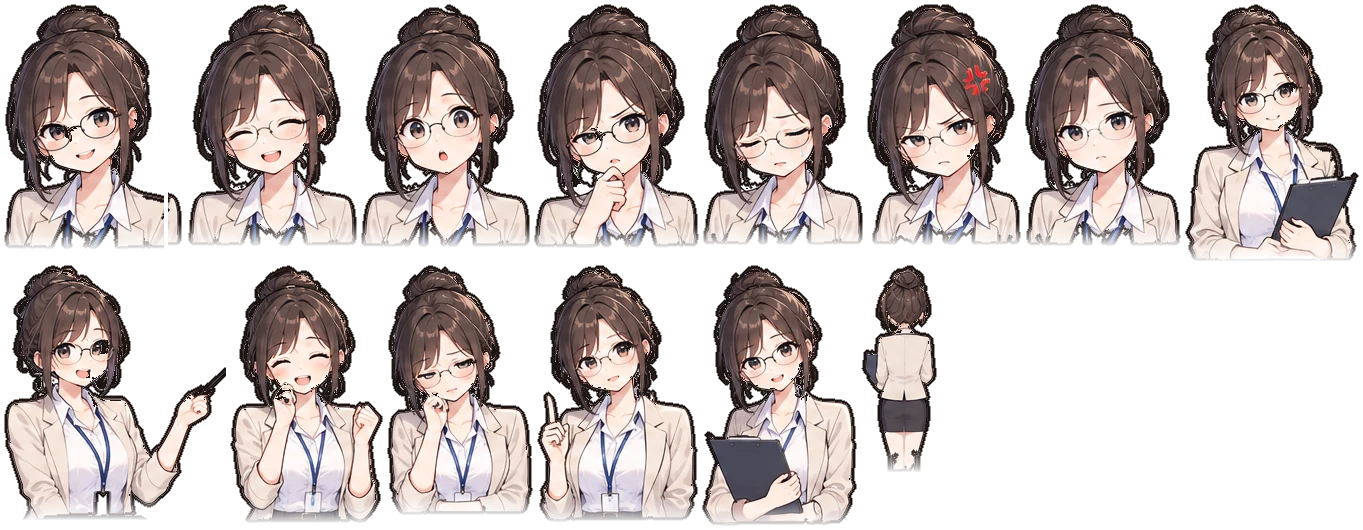
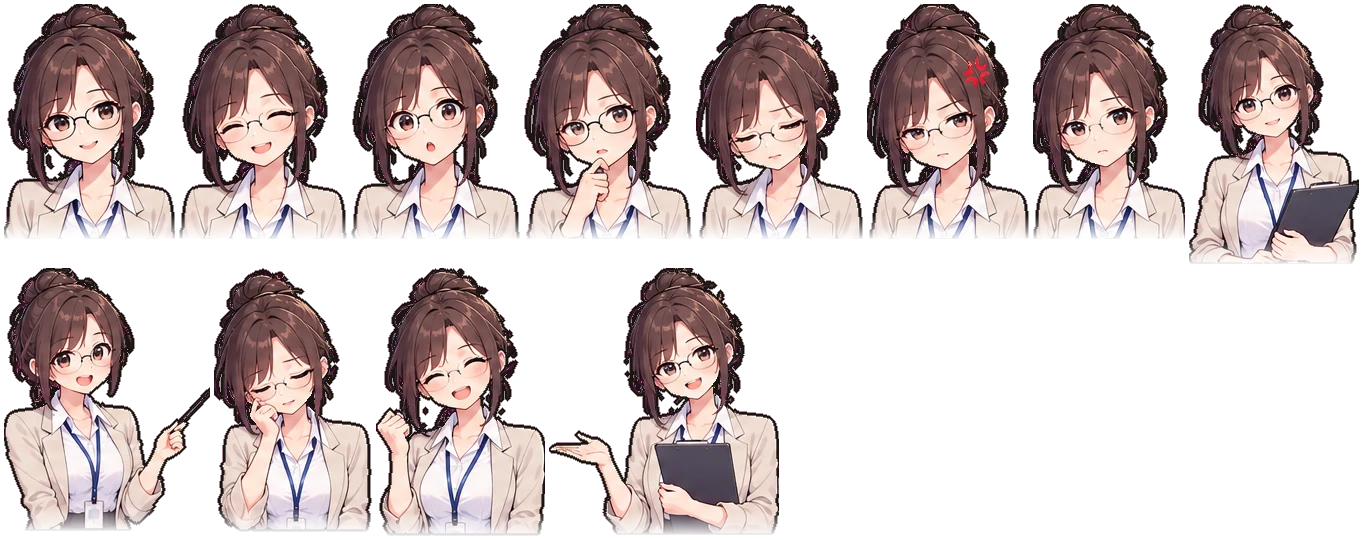
두뇌풀가동: 선생님 3판 시트(자홍 배경 17:27)로 교체 — 색 키잉+갇힌 자홍 조각·물든 가장자리 정리, 까만 윤곽선 유지, teacher v9·art.js v11 (사장님 2026-09-21 "선생님 새로 넣었어" → "올려")

diff --git a/games/mini/fullbrain/play/js/teacher.js b/games/mini/fullbrain/play/js/teacher.js
@@ -1,1 +1,1 @@
-window.FB_TEACHER = {"w": 1363, "h": 530, "frames": {"idle": [4, 4, 160, 245, 73, 80, 128], "smile": [168, 4, 189, 242, 100, 75, 120], "surprise": [361, 4, 169, 243, 78, 76, 120], "think": [534, 4, 165, 244, 74, 77, 124], "shy": [703, 4, 160, 241, 73, 76, 122], "angry": [867, 4, 154, 241, 66, 77, 123], "sad": [1025, 4, 156, 242, 69, 72, 115], "grade": [1185, 4, 174, 257, 65, 68, 107], "point": [4, 265, 222, 255, 56, 67, 108], "cheer": [230, 265, 153, 258, 58, 67, 106], "wrong": [387, 265, 146, 250, 47, 63, 101], "next": [537, 265, 161, 257, 56, 66, 106], "explain": [702, 265, 155, 261, 54, 67, 107], "back": [861, 265, 76, 207, 45, 35, 55]}};
+window.FB_TEACHER = {"w": 1363, "h": 540, "frames": {"idle": [4, 4, 171, 235, 79, 73, 119], "smile": [179, 4, 168, 235, 78, 72, 115], "surprise": [351, 4, 169, 235, 80, 72, 117], "think": [524, 4, 168, 235, 83, 75, 121], "shy": [696, 4, 167, 235, 70, 71, 115], "angry": [867, 4, 162, 235, 70, 73, 119], "sad": [1033, 4, 152, 235, 67, 71, 115], "grade": [1189, 4, 170, 260, 62, 70, 112], "point": [4, 268, 206, 263, 53, 76, 123], "wrong": [214, 268, 158, 264, 49, 70, 110], "cheer": [376, 268, 169, 268, 69, 77, 123], "explain": [549, 268, 230, 267, 127, 70, 113]}};

diff --git a/games/mini/fullbrain/play/index.html b/games/mini/fullbrain/play/index.html
@@ -6,7 +6,7 @@
 <meta name="theme-color" content="#2f5d4a">
 <meta name="robots" content="noindex">
 <title>두뇌풀가동</title>
-<link rel="preload" as="image" href="assets/teacher.webp?v=8" fetchpriority="high">
+<link rel="preload" as="image" href="assets/teacher.webp?v=9" fetchpriority="high">
 <style>
 @font-face{font-family:'NG';src:url('fonts/NanumGothic-title.woff2?v=2') format('woff2');font-display:swap}   /* Nanum Gothic ExtraBold (OFL) — 제목·문제 숫자 부분집합 */
 @font-face{font-family:'Ria';src:url('fonts/RiaSans-ExtraBold.woff2') format('woff2');font-display:swap}
@@ -180,9 +180,9 @@ body.touch .ab small{display:none}
 <div class="panel" id="pause"><button class="btn" id="resume">▶</button></div>
 
 <script src="assets/game-home.js" data-top="6" data-left="6" data-fullscreen="1" defer></script>
-<script src="js/teacher.js?v=8"></script>
+<script src="js/teacher.js?v=9"></script>
 <script src="js/audio.js?v=1"></script>
-<script src="js/art.js?v=10"></script>
+<script src="js/art.js?v=11"></script>
 <script src="js/game.js?v=5"></script>
 <script src="/assets/visit.js?v=17" defer></script>
 <script src="/assets/game-events.js?v=2" defer></script>

diff --git a/games/mini/fullbrain/play/js/art.js b/games/mini/fullbrain/play/js/art.js
@@ -115,7 +115,7 @@
   }
 
   // ---------------------------------------------------------------- 선생님(스프라이트 시트 assets/teacher.png, 좌표는 js/teacher.js)
-  const TIMG = new Image(); TIMG.src = 'assets/teacher.webp?v=8';
+  const TIMG = new Image(); TIMG.src = 'assets/teacher.webp?v=9';
   const TF = (window.FB_TEACHER && window.FB_TEACHER.frames) || {};
   const BUST_H = 250;                                             // 상반신 칸들의 기준 높이 — 칸마다 크기가 달라도 같은 배율로 그린다
   let prevName = '', curName = '', fadeT = 1;
